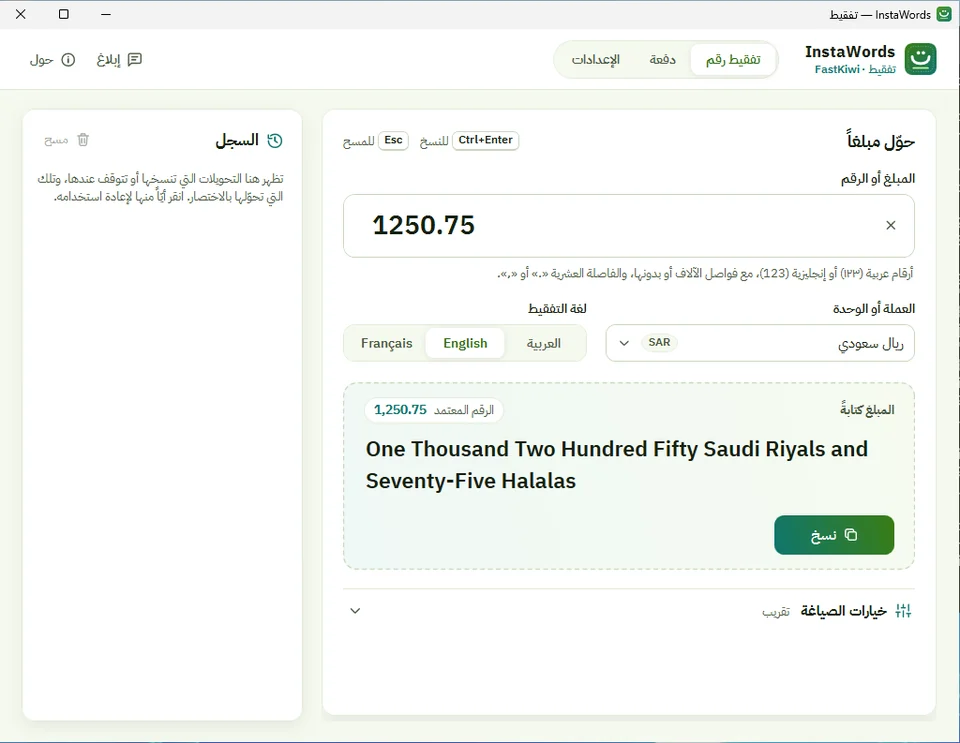
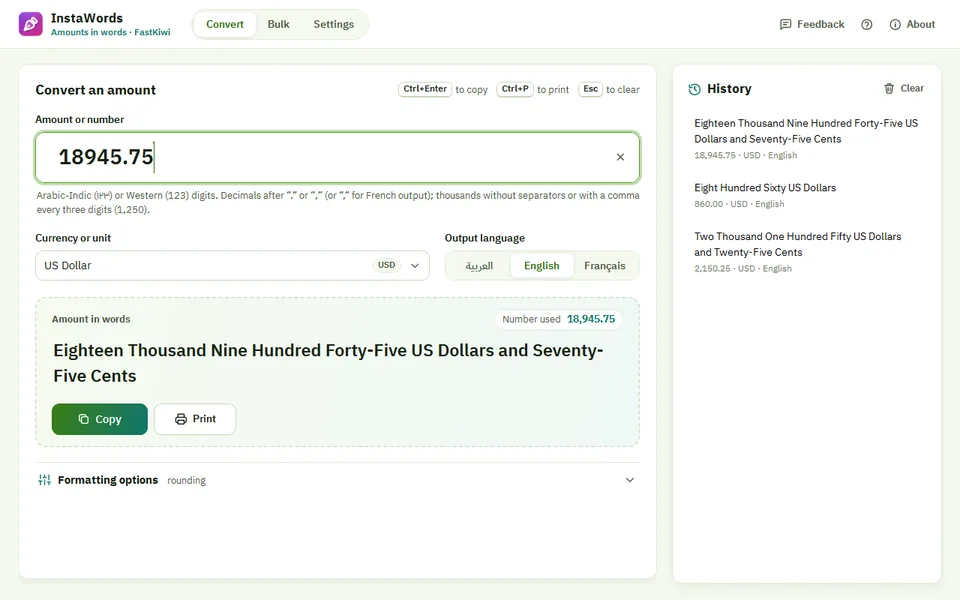
Home: fresh screenshots of the four Windows apps and a real window in every app card
New captures of InstaFind 1.2.0, Remember Me 1.8.0, Lemon 2.3.0 and
InstaWords 3.0.0 in Arabic and English, all made with made-up sample data:
each app window's client area at 1280x800, exported as 960x600 and 640x400
WebP (q82, 7-34 KB each). Every capture is now 16:10, so the per-app crop
hacks in .screen are gone and the hero deck reserves a 16:10 window.

- Hero: current captures; Lemon shows a real local chat (lemon-chat-*).
- App cards: each Windows app card shows a second real view of the app
  in a window frame (InstaFind inside documents, Remember Me notes, Lemon
  home, InstaWords bulk), lazy-loaded with width/height and alt text in
  the page's language.
- lemon-*.webp keep showing Lemon's home screen (used by /lemon/ too).
- QA: the hero InstaFind capture is now 960:600.

diff --git a/ar/index.html b/ar/index.html
@@ -88,19 +88,19 @@
       <div class="stage" data-stage>
         <figure class="win" id="win-instafind" role="tabpanel" aria-labelledby="tab-instafind" data-pos="0">
           <div class="win-bar"><img src="../img/instafind.svg" width="16" height="16" alt=""><span class="t">بحث سريع · InstaFind</span><span class="win-ctl" aria-hidden="true"><i></i><i></i><i></i></span></div>
-          <div class="screen s-instafind-r"><img src="../img/instafind-ar.webp" srcset="../img/instafind-ar-640.webp 640w, ../img/instafind-ar.webp 960w" sizes="(max-width: 719px) 82vw, 670px" width="960" height="571" fetchpriority="high" alt="InstaFind يعرض الملفات التي تطابق «التقرير» مع مساراتها وأحجامها"></div>
+          <div class="screen s-instafind-r"><img src="../img/instafind-ar.webp" srcset="../img/instafind-ar-640.webp 640w, ../img/instafind-ar.webp 960w" sizes="(max-width: 719px) 82vw, 670px" width="960" height="600" fetchpriority="high" alt="InstaFind يعرض الملفات التي تطابق أسماؤها «تقرير» مع مجلداتها وأحجامها وتواريخها"></div>
         </figure>
         <figure class="win" id="win-remember" role="tabpanel" aria-labelledby="tab-remember" data-pos="1" aria-hidden="true">
           <div class="win-bar"><img src="../img/remember-me.webp" width="16" height="16" alt=""><span class="t">ذكرني</span><span class="win-ctl" aria-hidden="true"><i></i><i></i><i></i></span></div>
-          <div class="screen s-remember"><img src="../img/remember-me-ar.webp" srcset="../img/remember-me-ar-640.webp 640w, ../img/remember-me-ar.webp 960w" sizes="(max-width: 719px) 82vw, 670px" width="960" height="631" decoding="async" alt="الواجهة العربية لبرنامج ذكرني مع مهام اليوم والتذكير القادم"></div>
+          <div class="screen s-remember"><img src="../img/remember-me-ar.webp" srcset="../img/remember-me-ar-640.webp 640w, ../img/remember-me-ar.webp 960w" sizes="(max-width: 719px) 82vw, 670px" width="960" height="600" decoding="async" alt="صفحة «يومي» في ذكرني: المهام المنتظرة والتذكير القادم وقائمة مهام اليوم"></div>
         </figure>
         <figure class="win dark" id="win-lemon" role="tabpanel" aria-labelledby="tab-lemon" data-pos="2" aria-hidden="true">
           <div class="win-bar"><img src="../img/lemon.webp" width="16" height="16" alt=""><span class="t">Lemon</span><span class="win-ctl" aria-hidden="true"><i></i><i></i><i></i></span></div>
-          <div class="screen s-lemon"><img src="../img/lemon-ar.webp" srcset="../img/lemon-ar-640.webp 640w, ../img/lemon-ar.webp 960w" sizes="(max-width: 719px) 82vw, 670px" width="960" height="600" decoding="async" alt="الواجهة العربية لبرنامج Lemon للمحادثة مع الذكاء الاصطناعي المحلي"></div>
+          <div class="screen s-lemon"><img src="../img/lemon-chat-ar.webp" srcset="../img/lemon-chat-ar-640.webp 640w, ../img/lemon-chat-ar.webp 960w" sizes="(max-width: 719px) 82vw, 670px" width="960" height="600" decoding="async" alt="Lemon يشرح الفرق بين الذكاء الاصطناعي وتعلّم الآلة بالنموذج qwen3:8b على الجهاز عبر Ollama"></div>
         </figure>
         <figure class="win" id="win-instawords" role="tabpanel" aria-labelledby="tab-instawords" data-pos="3" aria-hidden="true">
           <div class="win-bar"><img src="../img/instawords.svg" width="16" height="16" alt=""><span class="t">تفقيط · InstaWords</span><span class="win-ctl" aria-hidden="true"><i></i><i></i><i></i></span></div>
-          <div class="screen s-instawords"><img src="../img/instawords-ar.webp" srcset="../img/instawords-ar-640.webp 640w, ../img/instawords-ar.webp 960w" sizes="(max-width: 719px) 82vw, 670px" width="960" height="743" decoding="async" alt="برنامج InstaWords يكتب 1250.75 ريالاً سعودياً بالحروف العربية"></div>
+          <div class="screen s-instawords"><img src="../img/instawords-ar.webp" srcset="../img/instawords-ar-640.webp 640w, ../img/instawords-ar.webp 960w" sizes="(max-width: 719px) 82vw, 670px" width="960" height="600" decoding="async" alt="InstaWords يكتب 1250.75 ريالاً سعودياً بالحروف العربية، ومبالغ سابقة في السجل"></div>
         </figure>
       </div>
       <div class="tabs">
@@ -132,6 +132,10 @@
           <img class="squircle" src="../img/instafind.svg" width="64" height="64" alt="">
           <h3><bdi>InstaFind™</bdi> <span class="sub">بحث سريع</span></h3>
         </div>
+        <figure class="win card-shot">
+          <div class="win-bar" aria-hidden="true"><img src="../img/instafind.svg" width="16" height="16" alt=""><span class="t">InstaFind</span><span class="win-ctl"><i></i><i></i><i></i></span></div>
+          <div class="screen s-instafind-r"><img src="../img/instafind-docs-ar-640.webp" srcset="../img/instafind-docs-ar-640.webp 640w, ../img/instafind-docs-ar.webp 960w" sizes="(max-width: 759px) calc(100vw - 82px), (max-width: 1099px) calc(100vw - 120px), 560px" width="960" height="600" loading="lazy" decoding="async" alt="InstaFind يبحث داخل المستندات: كلمة «الميزانية» موجودة في نص ملفين"></div>
+        </figure>
         <p class="benefit">ابحث عن أي ملف على جهازك أثناء الكتابة، بالعربية أو الإنجليزية، وحتى داخل ملفات PDF وWord.</p>
         <div class="speed">
           <h4>الوقت اللازم للعثور على ملف بين 1.2 مليون ملف، في اختبارنا على ويندوز</h4>
@@ -153,6 +157,10 @@
           <img class="squircle" src="../img/remember-me.webp" width="56" height="56" alt="">
           <h3>ذكرني <span class="sub" lang="en"><bdi>Remember Me™</bdi></span></h3>
         </div>
+        <figure class="win card-shot">
+          <div class="win-bar" aria-hidden="true"><img src="../img/remember-me.webp" width="16" height="16" alt=""><span class="t">ذكرني</span><span class="win-ctl"><i></i><i></i><i></i></span></div>
+          <div class="screen s-remember"><img src="../img/remember-me-notes-ar-640.webp" srcset="../img/remember-me-notes-ar-640.webp 640w, ../img/remember-me-notes-ar.webp 960w" sizes="(max-width: 759px) calc(100vw - 82px), (max-width: 1099px) calc(50vw - 80px), 560px" width="960" height="600" loading="lazy" decoding="async" alt="صفحة الملاحظات في ذكرني: ملاحظات ملوّنة للأفكار والتسوق والكتب"></div>
+        </figure>
         <p class="benefit">تذكيرات تبقى ظاهرة على الشاشة حتى تتعامل معها، مع تكرار مرن ونسخ احتياطي موثوق.</p>
         <div class="app-foot dl-opts">
           <div class="dl-opt"><span class="dl-opt-label">الخيار الموصى به</span><a class="store-badge" href="https://apps.microsoft.com/detail/9NGB1F7T7JGN?referrer=appbadge&amp;cid=fastkiwi-site&amp;mode=full" data-store><img src="../img/store/get-it-from-microsoft-ar-dark.svg" width="161" height="44" alt="احصل على ذكرني من Microsoft Store"></a></div>
@@ -167,6 +175,10 @@
           <img class="squircle" src="../img/lemon.webp" width="56" height="56" alt="">
           <h3><bdi>Lemon™</bdi> <span class="sub">الذكاء الاصطناعي المحلي</span></h3>
         </div>
+        <figure class="win card-shot dark">
+          <div class="win-bar" aria-hidden="true"><img src="../img/lemon.webp" width="16" height="16" alt=""><span class="t">Lemon</span><span class="win-ctl"><i></i><i></i><i></i></span></div>
+          <div class="screen s-lemon"><img src="../img/lemon-ar-640.webp" srcset="../img/lemon-ar-640.webp 640w, ../img/lemon-ar.webp 960w" sizes="(max-width: 759px) calc(100vw - 82px), (max-width: 1099px) calc(50vw - 80px), 560px" width="960" height="600" loading="lazy" decoding="async" alt="الشاشة الرئيسية في Lemon: مربع المحادثة واقتراحات جاهزة وحالة «متصل» بـ Ollama"></div>
+        </figure>
         <p class="benefit">محادثة وبرمجة مع نماذج الذكاء الاصطناعي على جهازك عبر Ollama، بلا إنترنت، مع مساعدين يجيبون من ملفاتك فقط.</p>
         <div class="app-foot">
           <a class="btn btn-primary btn-sm" href="https://github.com/sarmadiq9090-coder/local-ai-chat/releases/latest/download/local-ai-chat.exe" data-dl="local-ai-chat">تنزيل<span class="dl-ver" data-dl-ver></span></a>
@@ -180,6 +192,10 @@
           <img class="squircle" src="../img/instawords.svg" width="56" height="56" alt="">
           <h3><bdi>InstaWords™</bdi> <span class="sub">تفقيط المبالغ</span></h3>
         </div>
+        <figure class="win card-shot">
+          <div class="win-bar" aria-hidden="true"><img src="../img/instawords.svg" width="16" height="16" alt=""><span class="t">InstaWords</span><span class="win-ctl"><i></i><i></i><i></i></span></div>
+          <div class="screen s-instawords"><img src="../img/instawords-bulk-ar-640.webp" srcset="../img/instawords-bulk-ar-640.webp 640w, ../img/instawords-bulk-ar.webp 960w" sizes="(max-width: 759px) calc(100vw - 82px), (max-width: 1099px) calc(50vw - 80px), 560px" width="960" height="600" loading="lazy" decoding="async" alt="InstaWords يحوّل عموداً من المبالغ منسوخاً من Excel، وكل مبلغ مكتوب بالحروف"></div>
+        </figure>
         <p class="benefit">اكتب أي مبلغ بالحروف للشيكات والفواتير، بالعربية أو الإنجليزية أو الفرنسية. في المتصفح أو كبرنامج ويندوز، وحتى بلا إنترنت.</p>
         <div class="app-foot">
           <a class="btn btn-primary btn-sm" href="https://github.com/sarmadiq9090-coder/InstaWords/releases/download/v3.0.0/InstaWords_3.0.0_x64-setup.exe" data-dl="tafket">تنزيل لويندوز<span class="dl-ver" data-dl-ver>v3.0.0</span></a>
@@ -306,7 +322,7 @@
     <figure class="shot reveal">
       <div class="win">
         <div class="win-bar"><img src="../img/remember-me.webp" width="16" height="16" alt=""><span class="t">ذكرني</span><span class="win-ctl" aria-hidden="true"><i></i><i></i><i></i></span></div>
-        <div class="screen s-remember"><img src="../img/remember-me-ar.webp" srcset="../img/remember-me-ar-640.webp 640w, ../img/remember-me-ar.webp 960w" sizes="(max-width: 959px) calc(100vw - 48px), 680px" width="960" height="631" loading="lazy" decoding="async" alt="الواجهة العربية لبرنامج ذكرني مع قائمة المهام"></div>
+        <div class="screen s-remember"><img src="../img/remember-me-ar.webp" srcset="../img/remember-me-ar-640.webp 640w, ../img/remember-me-ar.webp 960w" sizes="(max-width: 959px) calc(100vw - 48px), 680px" width="960" height="600" loading="lazy" decoding="async" alt="النافذة الرئيسية لبرنامج ذكرني: صفحة «يومي» مع قائمة المهام"></div>
       </div>
       <figcaption>الواجهة العربية لبرنامج ذكرني.</figcaption>
     </figure>
@@ -367,7 +383,7 @@
     <figure class="shot reveal">
       <div class="win">
         <div class="win-bar"><img src="../img/instawords.svg" width="16" height="16" alt=""><span class="t">تفقيط · InstaWords</span><span class="win-ctl" aria-hidden="true"><i></i><i></i><i></i></span></div>
-        <div class="screen s-instawords"><img src="../img/instawords-ar.webp" srcset="../img/instawords-ar-640.webp 640w, ../img/instawords-ar.webp 960w" sizes="(max-width: 959px) calc(100vw - 48px), 680px" width="960" height="743" loading="lazy" decoding="async" alt="برنامج InstaWords لويندوز يكتب 1250.75 ريالاً سعودياً بالحروف العربية"></div>
+        <div class="screen s-instawords"><img src="../img/instawords-ar.webp" srcset="../img/instawords-ar-640.webp 640w, ../img/instawords-ar.webp 960w" sizes="(max-width: 959px) calc(100vw - 48px), 680px" width="960" height="600" loading="lazy" decoding="async" alt="برنامج InstaWords لويندوز يكتب 1250.75 ريالاً سعودياً بالحروف العربية"></div>
       </div>
       <figcaption>InstaWords 2.0 لويندوز بالواجهة العربية.</figcaption>
     </figure>

diff --git a/index.html b/index.html
@@ -87,19 +87,19 @@
       <div class="stage" data-stage>
         <figure class="win" id="win-instafind" role="tabpanel" aria-labelledby="tab-instafind" data-pos="0">
           <div class="win-bar"><img src="img/instafind.svg" width="16" height="16" alt=""><span class="t">InstaFind</span><span class="win-ctl" aria-hidden="true"><i></i><i></i><i></i></span></div>
-          <div class="screen s-instafind-r"><img src="img/instafind-en.webp" srcset="img/instafind-en-640.webp 640w, img/instafind-en.webp 960w" sizes="(max-width: 719px) 82vw, 670px" width="960" height="571" fetchpriority="high" alt="InstaFind listing 13 files that match “report”, with their folders, sizes and dates"></div>
+          <div class="screen s-instafind-r"><img src="img/instafind-en.webp" srcset="img/instafind-en-640.webp 640w, img/instafind-en.webp 960w" sizes="(max-width: 719px) 82vw, 670px" width="960" height="600" fetchpriority="high" alt="InstaFind listing the files whose names match “report”, with their folders, sizes and dates"></div>
         </figure>
         <figure class="win" id="win-remember" role="tabpanel" aria-labelledby="tab-remember" data-pos="1" aria-hidden="true">
           <div class="win-bar"><img src="img/remember-me.webp" width="16" height="16" alt=""><span class="t">Remember Me</span><span class="win-ctl" aria-hidden="true"><i></i><i></i><i></i></span></div>
-          <div class="screen s-remember"><img src="img/remember-me-en.webp" srcset="img/remember-me-en-640.webp 640w, img/remember-me-en.webp 960w" sizes="(max-width: 719px) 82vw, 670px" width="960" height="631" decoding="async" alt="Remember Me showing today’s tasks and the next reminder"></div>
+          <div class="screen s-remember"><img src="img/remember-me-en.webp" srcset="img/remember-me-en-640.webp 640w, img/remember-me-en.webp 960w" sizes="(max-width: 719px) 82vw, 670px" width="960" height="600" decoding="async" alt="Remember Me’s Today page: tasks waiting, the next reminder and today’s task list"></div>
         </figure>
         <figure class="win dark" id="win-lemon" role="tabpanel" aria-labelledby="tab-lemon" data-pos="2" aria-hidden="true">
           <div class="win-bar"><img src="img/lemon.webp" width="16" height="16" alt=""><span class="t">Lemon</span><span class="win-ctl" aria-hidden="true"><i></i><i></i><i></i></span></div>
-          <div class="screen s-lemon"><img src="img/lemon-en.webp" srcset="img/lemon-en-640.webp 640w, img/lemon-en.webp 960w" sizes="(max-width: 719px) 82vw, 670px" width="960" height="600" decoding="async" alt="Lemon local AI chat, connected to Ollama on the PC"></div>
+          <div class="screen s-lemon"><img src="img/lemon-chat-en.webp" srcset="img/lemon-chat-en-640.webp 640w, img/lemon-chat-en.webp 960w" sizes="(max-width: 719px) 82vw, 670px" width="960" height="600" decoding="async" alt="Lemon answering a coding question with the qwen3:8b model, running locally through Ollama"></div>
         </figure>
         <figure class="win" id="win-instawords" role="tabpanel" aria-labelledby="tab-instawords" data-pos="3" aria-hidden="true">
           <div class="win-bar"><img src="img/instawords.svg" width="16" height="16" alt=""><span class="t">InstaWords</span><span class="win-ctl" aria-hidden="true"><i></i><i></i><i></i></span></div>
-          <div class="screen s-instawords"><img src="img/instawords-en.webp" srcset="img/instawords-en-640.webp 640w, img/instawords-en.webp 960w" sizes="(max-width: 719px) 82vw, 670px" width="960" height="743" decoding="async" alt="InstaWords writing 1,250.75 Saudi riyals in English words"></div>
+          <div class="screen s-instawords"><img src="img/instawords-en.webp" srcset="img/instawords-en-640.webp 640w, img/instawords-en.webp 960w" sizes="(max-width: 719px) 82vw, 670px" width="960" height="600" decoding="async" alt="InstaWords writing 18,945.75 US dollars in English words, with earlier amounts in its history"></div>
         </figure>
       </div>
       <div class="tabs">
@@ -131,6 +131,10 @@
           <img class="squircle" src="img/instafind.svg" width="64" height="64" alt="">
           <h3>InstaFind™ <span class="sub">Instant file search</span></h3>
         </div>
+        <figure class="win card-shot">
+          <div class="win-bar" aria-hidden="true"><img src="img/instafind.svg" width="16" height="16" alt=""><span class="t">InstaFind</span><span class="win-ctl"><i></i><i></i><i></i></span></div>
+          <div class="screen s-instafind-r"><img src="img/instafind-docs-en-640.webp" srcset="img/instafind-docs-en-640.webp 640w, img/instafind-docs-en.webp 960w" sizes="(max-width: 759px) calc(100vw - 82px), (max-width: 1099px) calc(100vw - 120px), 560px" width="960" height="600" loading="lazy" decoding="async" alt="InstaFind searching inside documents: the word “budget” found in the text of two files"></div>
+        </figure>
         <p class="benefit">Find any file on your PC as you type, in English or Arabic, even inside PDF and Word documents.</p>
         <div class="speed">
           <h4>Time to find a file among 1.2 million, in our test on Windows</h4>
@@ -152,6 +156,10 @@
           <img class="squircle" src="img/remember-me.webp" width="56" height="56" alt="">
           <h3>Remember Me™ <span class="sub">Tasks &amp; reminders</span></h3>
         </div>
+        <figure class="win card-shot">
+          <div class="win-bar" aria-hidden="true"><img src="img/remember-me.webp" width="16" height="16" alt=""><span class="t">Remember Me</span><span class="win-ctl"><i></i><i></i><i></i></span></div>
+          <div class="screen s-remember"><img src="img/remember-me-notes-en-640.webp" srcset="img/remember-me-notes-en-640.webp 640w, img/remember-me-notes-en.webp 960w" sizes="(max-width: 759px) calc(100vw - 82px), (max-width: 1099px) calc(50vw - 80px), 560px" width="960" height="600" loading="lazy" decoding="async" alt="Remember Me’s notes page: coloured notes for ideas, shopping and books"></div>
+        </figure>
         <p class="benefit">Reminders that stay on screen until you deal with them, with flexible repeats and verified backups.</p>
         <div class="app-foot dl-opts">
           <div class="dl-opt"><span class="dl-opt-label">Recommended</span><a class="store-badge" href="https://apps.microsoft.com/detail/9NGB1F7T7JGN?referrer=appbadge&amp;cid=fastkiwi-site&amp;mode=full" data-store><img src="img/store/get-it-from-microsoft-en-us-dark.svg" width="161" height="44" alt="Get Remember Me from Microsoft Store"></a></div>
@@ -166,6 +174,10 @@
           <img class="squircle" src="img/lemon.webp" width="56" height="56" alt="">
           <h3>Lemon™ <span class="sub">Local AI chat</span></h3>
         </div>
+        <figure class="win card-shot dark">
+          <div class="win-bar" aria-hidden="true"><img src="img/lemon.webp" width="16" height="16" alt=""><span class="t">Lemon</span><span class="win-ctl"><i></i><i></i><i></i></span></div>
+          <div class="screen s-lemon"><img src="img/lemon-en-640.webp" srcset="img/lemon-en-640.webp 640w, img/lemon-en.webp 960w" sizes="(max-width: 759px) calc(100vw - 82px), (max-width: 1099px) calc(50vw - 80px), 560px" width="960" height="600" loading="lazy" decoding="async" alt="Lemon’s home screen: the chat box, suggested prompts and “Connected · Ollama”"></div>
+        </figure>
         <p class="benefit">Chat and code with AI models on your own PC through Ollama, fully offline, with assistants that answer only from your files.</p>
         <div class="app-foot">
           <a class="btn btn-primary btn-sm" href="https://github.com/sarmadiq9090-coder/local-ai-chat/releases/latest/download/local-ai-chat.exe" data-dl="local-ai-chat">Download<span class="dl-ver" data-dl-ver></span></a>
@@ -179,6 +191,10 @@
           <img class="squircle" src="img/instawords.svg" width="56" height="56" alt="">
           <h3>InstaWords™ <span class="sub">Amounts in words</span></h3>
         </div>
+        <figure class="win card-shot">
+          <div class="win-bar" aria-hidden="true"><img src="img/instawords.svg" width="16" height="16" alt=""><span class="t">InstaWords</span><span class="win-ctl"><i></i><i></i><i></i></span></div>
+          <div class="screen s-instawords"><img src="img/instawords-bulk-en-640.webp" srcset="img/instawords-bulk-en-640.webp 640w, img/instawords-bulk-en.webp 960w" sizes="(max-width: 759px) calc(100vw - 82px), (max-width: 1099px) calc(50vw - 80px), 560px" width="960" height="600" loading="lazy" decoding="async" alt="InstaWords converting a column of amounts pasted from Excel, each written in words"></div>
+        </figure>
         <p class="benefit">Write any amount in words for cheques and invoices, in Arabic, English or French. In your browser or as a Windows app, even offline.</p>
         <div class="app-foot">
           <a class="btn btn-primary btn-sm" href="https://github.com/sarmadiq9090-coder/InstaWords/releases/download/v3.0.0/InstaWords_3.0.0_x64-setup.exe" data-dl="tafket">Download<span class="dl-ver" data-dl-ver>v3.0.0</span></a>
@@ -305,7 +321,7 @@
     <figure class="shot reveal">
       <div class="win">
         <div class="win-bar"><img src="img/remember-me.webp" width="16" height="16" alt=""><span class="t">Remember Me</span><span class="win-ctl" aria-hidden="true"><i></i><i></i><i></i></span></div>
-        <div class="screen s-remember"><img src="img/remember-me-en.webp" srcset="img/remember-me-en-640.webp 640w, img/remember-me-en.webp 960w" sizes="(max-width: 959px) calc(100vw - 48px), 680px" width="960" height="631" loading="lazy" decoding="async" alt="Remember Me main window with the task list"></div>
+        <div class="screen s-remember"><img src="img/remember-me-en.webp" srcset="img/remember-me-en-640.webp 640w, img/remember-me-en.webp 960w" sizes="(max-width: 959px) calc(100vw - 48px), 680px" width="960" height="600" loading="lazy" decoding="async" alt="Remember Me main window: the Today page with its task list"></div>
       </div>
       <figcaption>Remember Me main window.</figcaption>
     </figure>
@@ -366,7 +382,7 @@
     <figure class="shot reveal">
       <div class="win">
         <div class="win-bar"><img src="img/instawords.svg" width="16" height="16" alt=""><span class="t">InstaWords</span><span class="win-ctl" aria-hidden="true"><i></i><i></i><i></i></span></div>
-        <div class="screen s-instawords"><img src="img/instawords-en.webp" srcset="img/instawords-en-640.webp 640w, img/instawords-en.webp 960w" sizes="(max-width: 959px) calc(100vw - 48px), 680px" width="960" height="743" loading="lazy" decoding="async" alt="InstaWords for Windows writing 1250.75 Saudi riyals in English words"></div>
+        <div class="screen s-instawords"><img src="img/instawords-en.webp" srcset="img/instawords-en-640.webp 640w, img/instawords-en.webp 960w" sizes="(max-width: 959px) calc(100vw - 48px), 680px" width="960" height="600" loading="lazy" decoding="async" alt="InstaWords for Windows writing 18,945.75 US dollars in English words"></div>
       </div>
       <figcaption>InstaWords 2.0 for Windows, in English.</figcaption>
     </figure>

diff --git a/style.css b/style.css
@@ -180,11 +180,13 @@ html[dir="rtl"] .hero::before { transform: scaleX(-1); }
 /* the screenshot area: crops each capture's own title bar / scrollbar so every window gets the same frame */
 .screen { position: relative; overflow: hidden; direction: ltr; aspect-ratio: var(--ar); background: var(--sbg, #fff); }
 .screen > img, .screen > video { display: block; max-width: none; height: auto; width: var(--iw, 100%); margin: var(--im, 0); }
-.s-instafind { --ar: 944 / 561; --iw: 100.2119%; --im: -3.2839% 0 0 -.1059%; --sbg: #f0f0f0; }
-.s-remember { --ar: 948 / 631; --iw: 101.2658%; --sbg: #fff; }
-.s-lemon { --ar: 960 / 600; --sbg: #1e1f1c; }
-.s-instafind-r { --ar: 960 / 571; --sbg: #fff; } /* pre-cropped capture: no title bar to hide */
-.s-instawords { --ar: 959 / 712; --iw: 100.1043%; --im: -3.1283% 0 0 0; --sbg: #f7f9f2; }
+.s-instafind { --ar: 944 / 561; --iw: 100.2119%; --im: -3.2839% 0 0 -.1059%; --sbg: #f0f0f0; } /* the demo video */
+/* the app captures: each window's client area at 1280x800, so every one is 16:10 with nothing to crop */
+.s-instafind-r, .s-remember, .s-lemon, .s-instawords { --ar: 16 / 10; }
+.s-instafind-r { --sbg: #fff; }
+.s-remember { --sbg: #f7f7fa; }
+.s-lemon { --sbg: #1e1f1c; }
+.s-instawords { --sbg: #f4f8ee; }
 
 /* ---------- hero stage: the four apps ----------
    A tidy deck on a soft plate: the front window sits at the bottom; the three behind it are
@@ -193,11 +195,11 @@ html[dir="rtl"] .hero::before { transform: scaleX(-1); }
 .stage { --pad: clamp(14px, 2.4vw, 28px); --peek: 30px; position: relative; padding: var(--pad); border-radius: 28px; isolation: isolate;
   background: linear-gradient(165deg, rgb(123 192 67 / .20), rgb(123 192 67 / .07) 55%, rgb(255 255 255 / .4)); border: 1px solid rgb(123 192 67 / .22);
   box-shadow: inset 0 1px 0 rgb(255 255 255 / .7); }
-/* reserves the deck's height: three peeks + a title bar + the 944:561 screenshot */
-.stage::before { content: ""; display: block; padding-top: calc(3 * var(--peek) + 36px + 59.43%); }
+/* reserves the deck's height: three peeks + a title bar + the 16:10 screenshot */
+.stage::before { content: ""; display: block; padding-top: calc(3 * var(--peek) + 36px + 62.5%); }
 .stage .win { position: absolute; inset-inline: var(--pad); bottom: var(--pad); transform-origin: top center; cursor: pointer; z-index: var(--z);
   transition: transform .7s var(--ease), box-shadow .7s var(--ease), z-index .7s steps(3, end); }
-.stage .win .screen { --ar: 944 / 561; }
+.stage .win .screen { --ar: 16 / 10; }
 .stage .win::after { content: ""; position: absolute; inset: 0; background: var(--bg); opacity: var(--veil, 0); pointer-events: none; transition: opacity .7s var(--ease); border-radius: inherit; }
 .stage .win[data-pos="0"] { --z: 4; transform: none; cursor: default; box-shadow: var(--shadow-lg); }
 .stage .win[data-pos="1"] { --z: 3; --veil: .06; transform: translateY(calc(-1 * var(--peek))) scale(.94); box-shadow: var(--shadow-sm); }
@@ -267,6 +269,13 @@ html[dir="rtl"] .tab .prog { transform-origin: right; }
 .app-top h3 { margin: 0; font-size: 1.3rem; }
 .app-top .sub { display: block; font-size: .9rem; font-weight: 400; color: var(--muted); letter-spacing: 0; }
 .app .benefit { color: var(--muted); margin: 0; flex: 1; }
+/* each app card shows the app's real window (a second view: the hero shows the main one) */
+.card-shot { box-shadow: var(--shadow-sm); border-color: var(--border); }
+.card-shot .win-bar { height: 30px; font-size: .74rem; }
+.card-shot .win-ctl i { width: 34px; }
+.card-shot .screen > img { width: 100%; }
+.lift:hover .card-shot { border-color: var(--border-2); }
+@media (min-width: 1100px) { .bento .big { justify-content: space-between; } .bento .big .app-foot { margin-top: 0; } } /* the tall InstaFind card: spare height spread evenly, not one gap */
 .app .benefit strong { color: var(--text); }
 .app-foot { display: flex; flex-wrap: wrap; align-items: center; gap: .5rem .75rem; }
 .meta { display: flex; flex-wrap: wrap; align-items: center; gap: .25rem .75rem; margin: 0; padding-top: .9rem; border-top: 1px solid var(--border); font-size: .85rem; color: var(--muted); }
